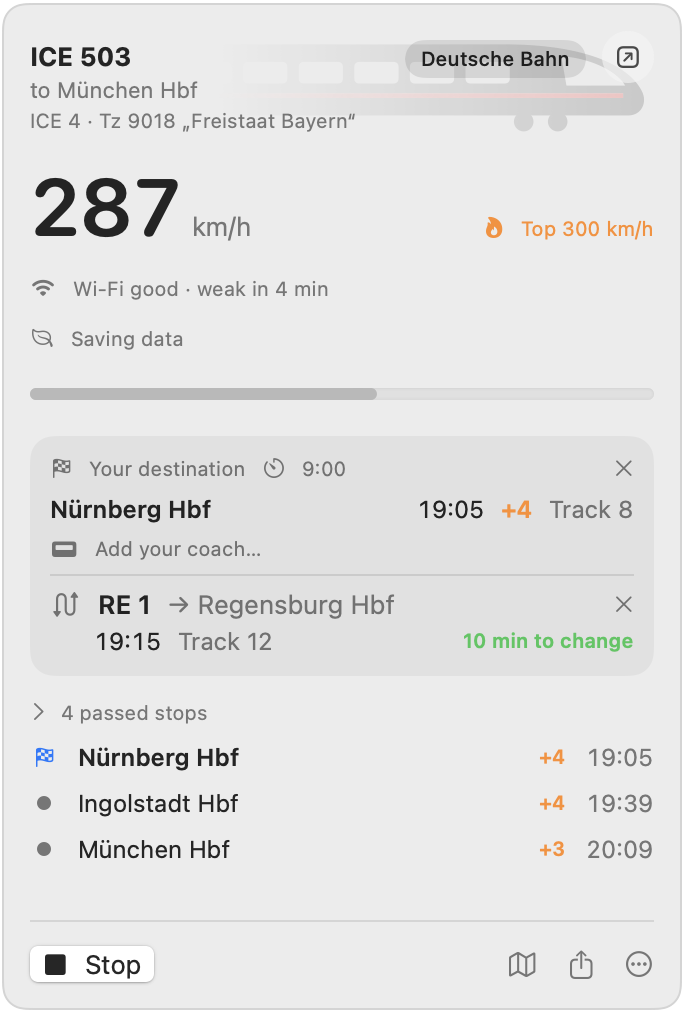
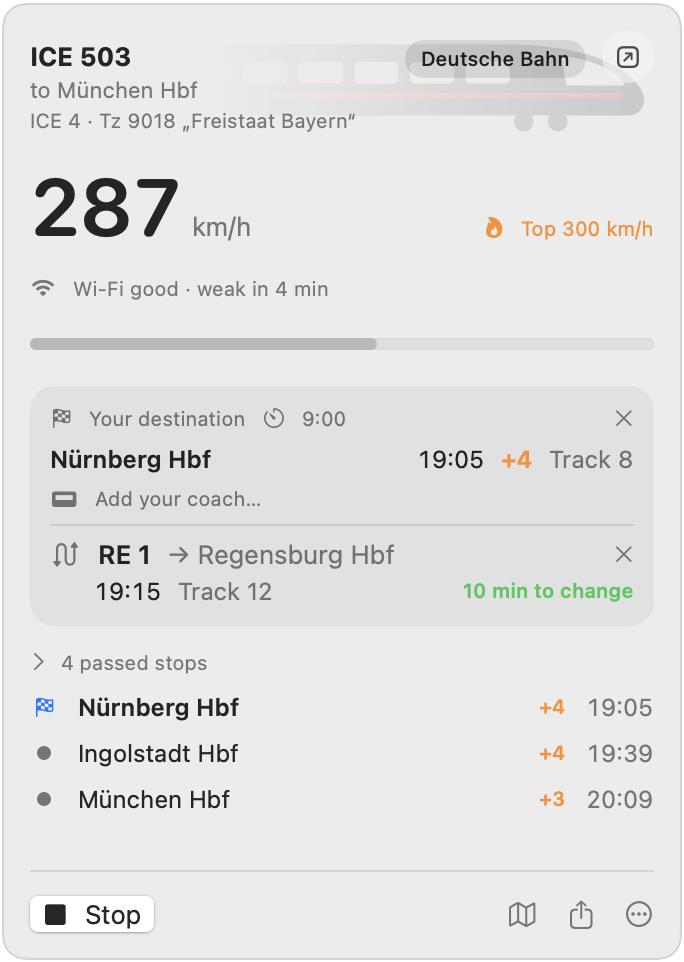
Fix the CI build of the Trips tab; fresh screenshots
CI's compiler makes a view's memberwise initializer private when it has a
private stored property, so TripsView gets one spelled out, like the map
and the ride charts. The README's screenshots show the current panel and
the trip log.

diff --git a/Sources/Zugbar/Views/SettingsView.swift b/Sources/Zugbar/Views/SettingsView.swift
@@ -136,6 +136,12 @@ struct TripsView: View {
     private var chosenYear = State<Int?>(initialValue: nil)
     @Environment(\.strings) private var strings
 
+    /// Spelled out: older compilers make the memberwise one private because of `chosenYear`.
+    init(monitor: TrainMonitor, madeUp: TripLog? = nil) {
+        self.monitor = monitor
+        self.madeUp = madeUp
+    }
+
     var body: some View {
         // Demo mode shows made-up trips, so the tab has something on it without a ride.
         let log = madeUp ?? (monitor.demoMode ? DemoTrips.log : monitor.trips.log)

diff --git a/README.md b/README.md
@@ -30,6 +30,8 @@ Live train info in your Mac's menu bar.
   </tr>
 </table>
 
+<img src="docs/screenshots/trips.png" width="340" alt="The trip log: a year in figures and the lines ridden">
+
 > [!NOTE]
 > Vibe-coded hobby project, mostly written by Claude and built on
 > [TrainStatusInfo](https://github.com/niklaswa/TrainStatusInfo), [onboardapis](https://github.com/felix-zenk/onboardapis),
